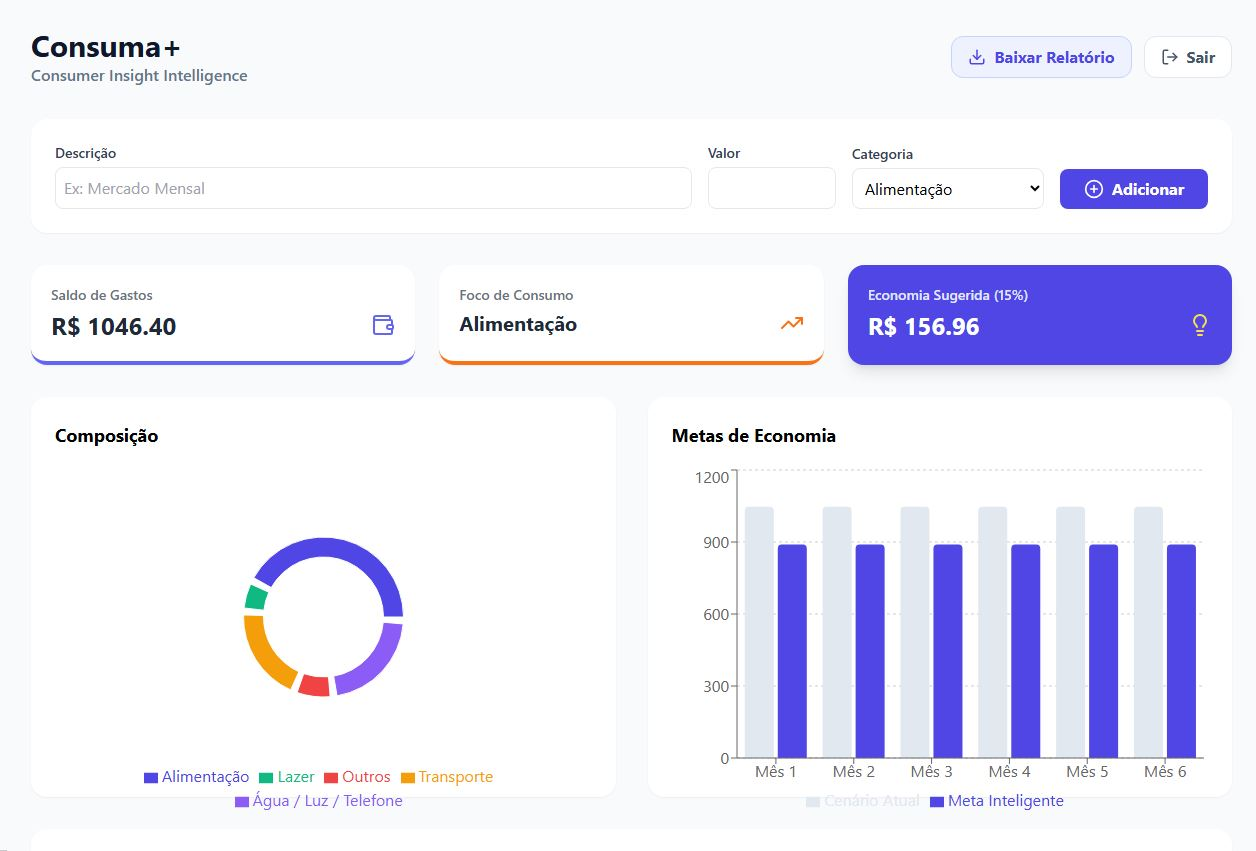
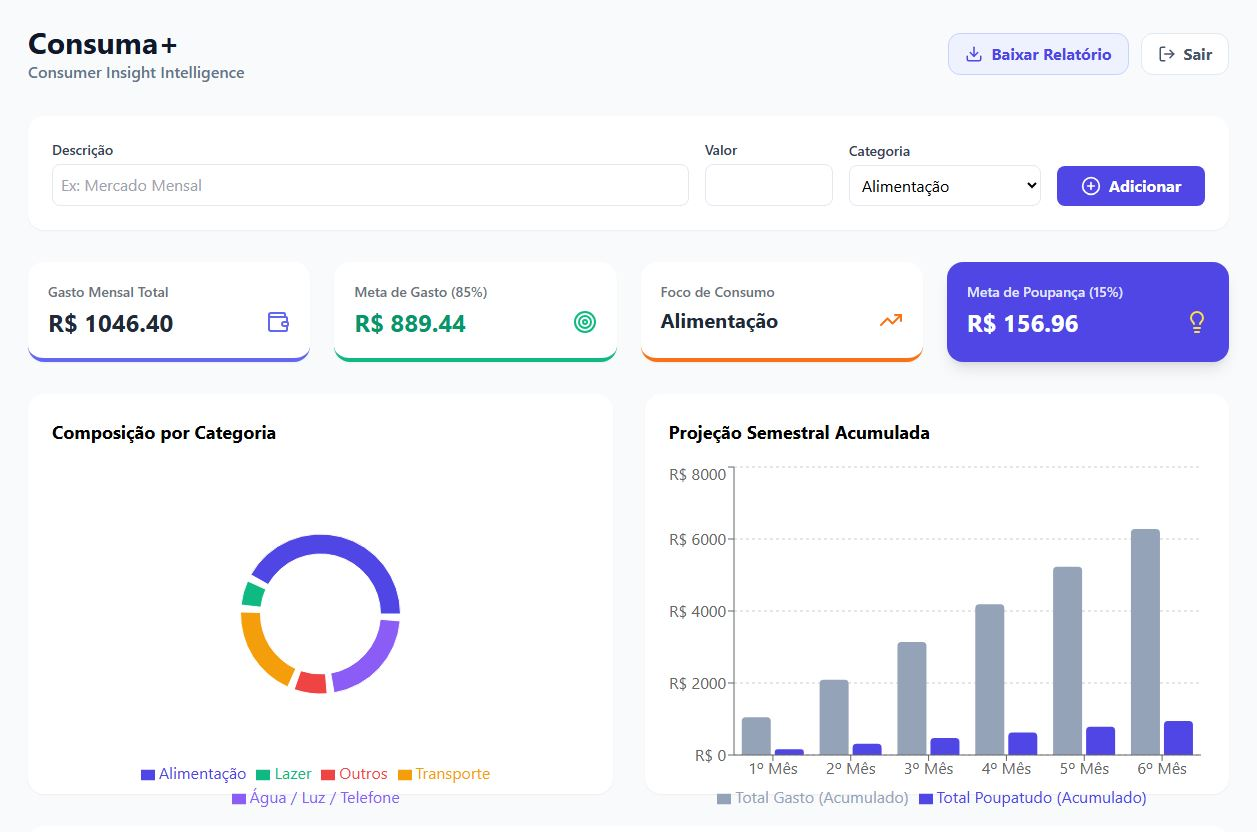
feat: adiciona card de meta inteligente de gasto e ajuste de layout

diff --git a/src/pages/Dashboard.tsx b/src/pages/Dashboard.tsx
@@ -5,7 +5,7 @@ import {
   PieChart, Pie, ResponsiveContainer, Tooltip, Legend, Cell, 
   BarChart, Bar, XAxis, YAxis, CartesianGrid 
 } from 'recharts';
-import { Wallet, TrendingUp, Trash2, Lightbulb, LogOut, Download } from 'lucide-react';
+import { Wallet, TrendingUp, Trash2, Lightbulb, LogOut, Download, Target } from 'lucide-react';
 import { FormularioGasto } from '../components/FormularioGasto';
 import { useAuth } from '../context/AuthContext';
 
@@ -55,9 +55,10 @@ export const Dashboard = ({ transacoes, onAdicionarGasto, onExcluirGasto }: Dash
   };
 
   const analise = useMemo(() => {
-    // Cálculo dinâmico: o total é recalculado a cada mudança nas transações
     const totalAtual = transacoes.reduce((acc, t) => acc + t.valor, 0);
     const economiaMensal = totalAtual * 0.15; 
+    //Meta Inteligente: O teto de gastos ideal (85% do total)
+    const metaInteligenteGasto = totalAtual - economiaMensal;
 
     const agrupado = transacoes.reduce((acc: Record<string, number>, t) => {
       acc[t.categoria] = (acc[t.categoria] || 0) + t.valor;
@@ -69,20 +70,17 @@ export const Dashboard = ({ transacoes, onAdicionarGasto, onExcluirGasto }: Dash
       ? dadosPizza.reduce((prev, curr) => (prev.value > curr.value ? prev : curr))
       : { name: 'Nenhum', value: 0 };
 
-    // Projeção Dinâmica: As barras de 1 a 6 meses "sobem" ou "descem" na hora
     const dadosProjecao = Array.from({ length: 6 }, (_, i) => {
       const meses = i + 1;
       return {
         mes: `${meses}º Mês`,
-        // Reflete o acúmulo baseado no seu gasto atual em tempo real
         gastoAcumulado: parseFloat((totalAtual * meses).toFixed(2)),
-        // Reflete a reserva baseada no seu gasto atual em tempo real
         reservaAcumulada: parseFloat((economiaMensal * meses).toFixed(2))
       };
     });
 
-    return { totalAtual, dadosPizza, dominante, dadosProjecao, economiaMensal };
-  }, [transacoes]); // A dependência [transacoes] garante a atualização instantânea
+    return { totalAtual, dadosPizza, dominante, dadosProjecao, economiaMensal, metaInteligenteGasto };
+  }, [transacoes]); 
 
   const CORES = ['#4F46E5', '#10B981', '#F59E0B', '#EF4444', '#8B5CF6'];
 
@@ -113,11 +111,20 @@ export const Dashboard = ({ transacoes, onAdicionarGasto, onExcluirGasto }: Dash
 
       <FormularioGasto onAdicionar={onAdicionarGasto} />
 
-      <div className="grid grid-cols-1 md:grid-cols-3 gap-6 mb-8">
+      {/* Grid ajustada para 4 colunas no Desktop e 2 no Tablet/Mobile */}
+      <div className="grid grid-cols-1 sm:grid-cols-2 lg:grid-cols-4 gap-6 mb-8">
         <div className="p-5 rounded-2xl bg-white shadow-sm border-b-4 border-indigo-500">
           <p className="text-sm text-gray-500 font-medium text-left">Gasto Mensal Total</p>
           <h3 className="text-2xl font-bold text-gray-800 flex justify-between items-center mt-1">
             R$ {analise.totalAtual.toFixed(2)} <Wallet className="text-indigo-500" />
+          </h3>
+        </div>
+
+        {/* Card de Meta Inteligente de Gasto */}
+        <div className="p-5 rounded-2xl bg-white shadow-sm border-b-4 border-emerald-500">
+          <p className="text-sm text-gray-500 font-medium text-left">Meta de Gasto (85%)</p>
+          <h3 className="text-2xl font-bold text-emerald-600 flex justify-between items-center mt-1">
+            R$ {analise.metaInteligenteGasto.toFixed(2)} <Target className="text-emerald-500" />
           </h3>
         </div>
 
